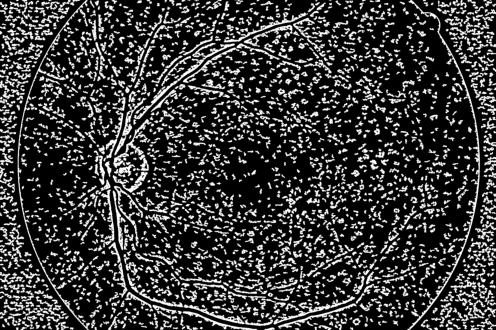
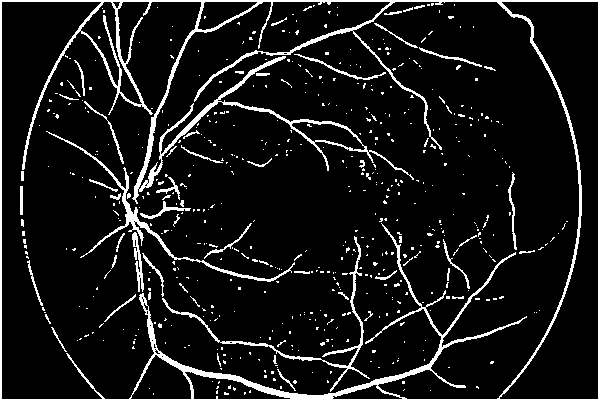
basic blood vessels detection

diff --git a/App.py b/App.py
@@ -1,6 +1,6 @@
 from tkinter import Tk, Label, Scale, Button, Text, Checkbutton, messagebox, Entry, StringVar, filedialog
 
-from PIL import ImageTk, Image, ImageDraw, ImageOps
+from PIL import ImageTk, Image, ImageDraw, ImageOps, ImageFilter, ImageEnhance
 import numpy as np
 
 import skimage as sk
@@ -11,34 +11,23 @@ class App:
 
     def __init__(self):
 
-
+        
         #display settings
-        self.maxImageDisplayWidth = 300
-        self.maxImageDisplayHeight = 400
+        self.windowWidth = 2500
+        self.windowHeight = 1300
+        self.maxImageDisplayWidth = 600
+        self.maxImageDisplayHeight = 600
 
 
         # window
         self.window = Tk()
         self.window.title('blood vessels segmentation')
-        self.window.geometry('1200x500')
+        self.window.geometry('{width}x{height}'.format(width=self.windowWidth, height=self.windowHeight))
 
-        # place for original image 
-        self.baseImage = Image.open('images/01_dr.JPG')
-        self.img = ImageTk.PhotoImage(self.resizeToFitLimits(self.baseImage))
-        self.imgLabel = Label(self.window, image=self.img)
-        self.imgLabel.grid(column=0, row=0, columnspan=2)
-
-        # place for filtered image
-        self.filtered = Image.open('blank.png')
-        self.filImg = ImageTk.PhotoImage(self.resizeToFitLimits(self.filtered))
-        self.filImgLabel = Label(self.window, image=self.filImg)
-        self.filImgLabel.grid(column=2, row=0, columnspan=2)
-
-        # place for
-        self.compareImage = Image.open('blank.png')
-        self.comImg = ImageTk.PhotoImage(self.resizeToFitLimits(self.compareImage))
-        self.comImgLabel = Label(self.window, image=self.comImg)
-        self.comImgLabel.grid(column=4, row=0, columnspan=2)
+        # images
+        self.images = []
+        self.imagePIs = []
+        self.imageLabels = []
 
 
         # computation status
@@ -56,36 +45,50 @@ class App:
 
 
         # layout
-        startButton.grid(column=3,row=5)
+        startButton.grid(column=1,row=5)
 
 
-        self.statusLabel.grid(column=4, row=2)
+        self.statusLabel.grid(column=4, row=4)
 
-        selectFileTitleLabel.grid(column=0, row = 1, sticky='W')
-        selectFileButton.grid(column=1, row = 2)
-        self.selectedFileNameLabel.grid(column=2, row=2)
+        selectFileTitleLabel.grid(column=0, row = 4, sticky='W')
+        selectFileButton.grid(column=1, row = 4)
+        self.selectedFileNameLabel.grid(column=2, row=4)
 
+        self.setImage(Image.open('images/01_dr.JPG'), 0)
 
         self.window.mainloop()
 
-    # returns image resized to fit in limits set in maxImageDisplayWidth and maxImageDisplayHeight variables
-    def resizeToFitLimits(self, image):
+    def resizeProportionally(self, image, maxWidth, maxheight):
         if image.size[0] > image.size[1]:
-            newShape = (self.maxImageDisplayHeight, int(self.maxImageDisplayHeight * (image.size[1] / image.size[0])) + 1)
+            newShape = (maxheight, int(maxheight * (image.size[1] / image.size[0])) + 1)
         else:
-            newShape = (int(self.maxImageDisplayWidth * (image.size[0] / image.size[1])) + 1, self.maxImageDisplayWidth)
+            newShape = (int(maxWidth * (image.size[0] / image.size[1])) + 1, maxWidth)
 
         return image.resize(newShape, resample=Image.BICUBIC)
 
-    # display original image
-    def setImage(self, image):
-        self.img = ImageTk.PhotoImage(self.resizeToFitLimits(image))
-        self.imgLabel.config(image=self.img)
+    # returns image resized to fit in limits set in maxImageDisplayWidth and maxImageDisplayHeight variables
+    def resizeToFitLimits(self, image):
+        return self.resizeProportionally(image, self.maxImageDisplayWidth, self.maxImageDisplayHeight)
 
-    # display filtered image
-    def setFilteredImage(self, image):
-        self.filImg = ImageTk.PhotoImage(self.resizeToFitLimits(image))
-        self.filImgLabel.config(image=self.filImg)
+    # wyświetla obrazek na podanej pozycji (lub na nowej, jeżeli nie podano)
+    def setImage(self, image, index = -1):
+            if index == -1 or index >= len(self.images):
+                index = len(self.images)
+                self.images.append(image)
+                self.imagePIs.append(ImageTk.PhotoImage(self.resizeToFitLimits(self.images[index])))
+                self.imageLabels.append(Label(self.window, image=self.imagePIs[index]))
+                row = index // (self.windowWidth // self.maxImageDisplayWidth)
+                col = index % ((self.windowWidth // self.maxImageDisplayWidth))
+                self.imageLabels[index].grid(column=col, row=row)
+            else:
+                self.images[index] = image
+                self.imagePIs[index] = ImageTk.PhotoImage(self.resizeToFitLimits(self.images[index]))
+                self.imageLabels[index].configure(image=self.imagePIs[index])
+    
+    def getImage(self, index):
+        if index >= len(self.images):
+            return Image.open('blank.png')
+        return self.images[index]
 
     
 
@@ -97,77 +100,31 @@ class App:
             self.inputImageFile = filename
             self.selectedFileNameLabel.config(text=filename[filename.rindex('/')+1:])
 
-
-            self.baseImage = Image.open(filename)
-            self.setImage(self.baseImage)
-
-
-
-    # funkcja w której filtrujemy obrazek przed wyznaczaniem naczyń
-    def preprocess(self, image):
-
-        # usuwanie kanału czerwonego (bo tylko takie mamy sprawdzac obrazki?)
-        for i in range(len(image)):
-            for j in range(len(image[0])):
-                image[i][j][0] = 0
-        image = Image.fromarray(image, mode='RGB')
-
-        # obrazek w skali szarości
-        image = np.array(image.convert('L'))
-
-        # wyostrzenie filtrem Gaussa - chyba trzeba cos lepszego
-        blurred = sk.filters.gaussian(image, sigma=2)
-        image = image - blurred
-
-        #jakis kontrast todo
-
-        return image
-
-    def findEdges(self, image):
-        filtered = sk.filters.hessian(image) # nie musi byc koniecznie ten filtr
-        return filtered
-
-    # funckja w której filtrujemy obrazek po znalezieniu naczyń
-    def postprocess(self, image):
-
-        # znajdowanie optymalnego progu(do rozrozniania tła) czy to trzeba samemu implementowac?
-        threshold = sk.filters.threshold_otsu(image)
-
-        # zamiana image na tablice boolów (True jezeli wartosc > threshold)
-        image = image > threshold
-
-        # usunięcie małych obszarów
-        image = sk.morphology.remove_small_objects(image, min_size=100)
-
-
-        # dylatacja o promieniu 2
-        image = sk.morphology.dilation(image, sk.morphology.disk(2))
-
-        # nadal zwracamy tablice z bool
-        return image
+            self.setImage(Image.open(filename), 0)
 
 
     def detectVessels(self):
-        image = np.array(self.baseImage)
 
-        image = self.preprocess(image)
-        image = self.findEdges(image)
-        image = self.postprocess(image)
+        # używamy tylko kanału M (tak mi działa lepiej niż jakieś kanały z RGB) 
+        resimage = self.getImage(0).convert('CMYK').getchannel('M')
 
-        # jak sie zapisuje matplotlibem to czasem obraz inaczej wyglada ;-;
-        #resimage = self.saveResult(image)
+        # ze względu na użyte filtru działa tylko dla małych obrazków, trzeba to będzie potem zmienić
+        resimage = self.resizeProportionally(resimage, 600, 600)
 
-        resimage = Image.fromarray(image)
+        # podbijamy kontrast
+        resimage = ImageEnhance.Contrast(resimage).enhance(1.8)
 
-        self.setFilteredImage(resimage)
+        # znajdujemy krawędzie
+        resimage = resimage.filter(ImageFilter.FIND_EDGES)
 
-    # do testow, funckja zapisujaca przefiltrowany obraz uzywajac matplotlib
-    def saveResult(self, image):
-        import matplotlib.pyplot as plt
-        # convert to grayscale using matplotlib
-        plt.imshow(image.squeeze(), cmap='gray')
-        plt.axis('off')
-        plt.savefig('output.png', bbox_inches='tight', pad_inches=0)
-        plt.close()
+        # rozmycie
+        resimage = resimage.filter(ImageFilter.BoxBlur(1))
 
-        return Image.open('output.png')
+        # progowe mapowanie na obraz czarno-biały
+        resimage = resimage.point( lambda p: 255 if p > 20 else 0 )
+
+        # wyświetlenie wyniku
+        self.setImage(resimage, 1)
+
+        # zapis do pliku
+        resimage.save("output.png")
